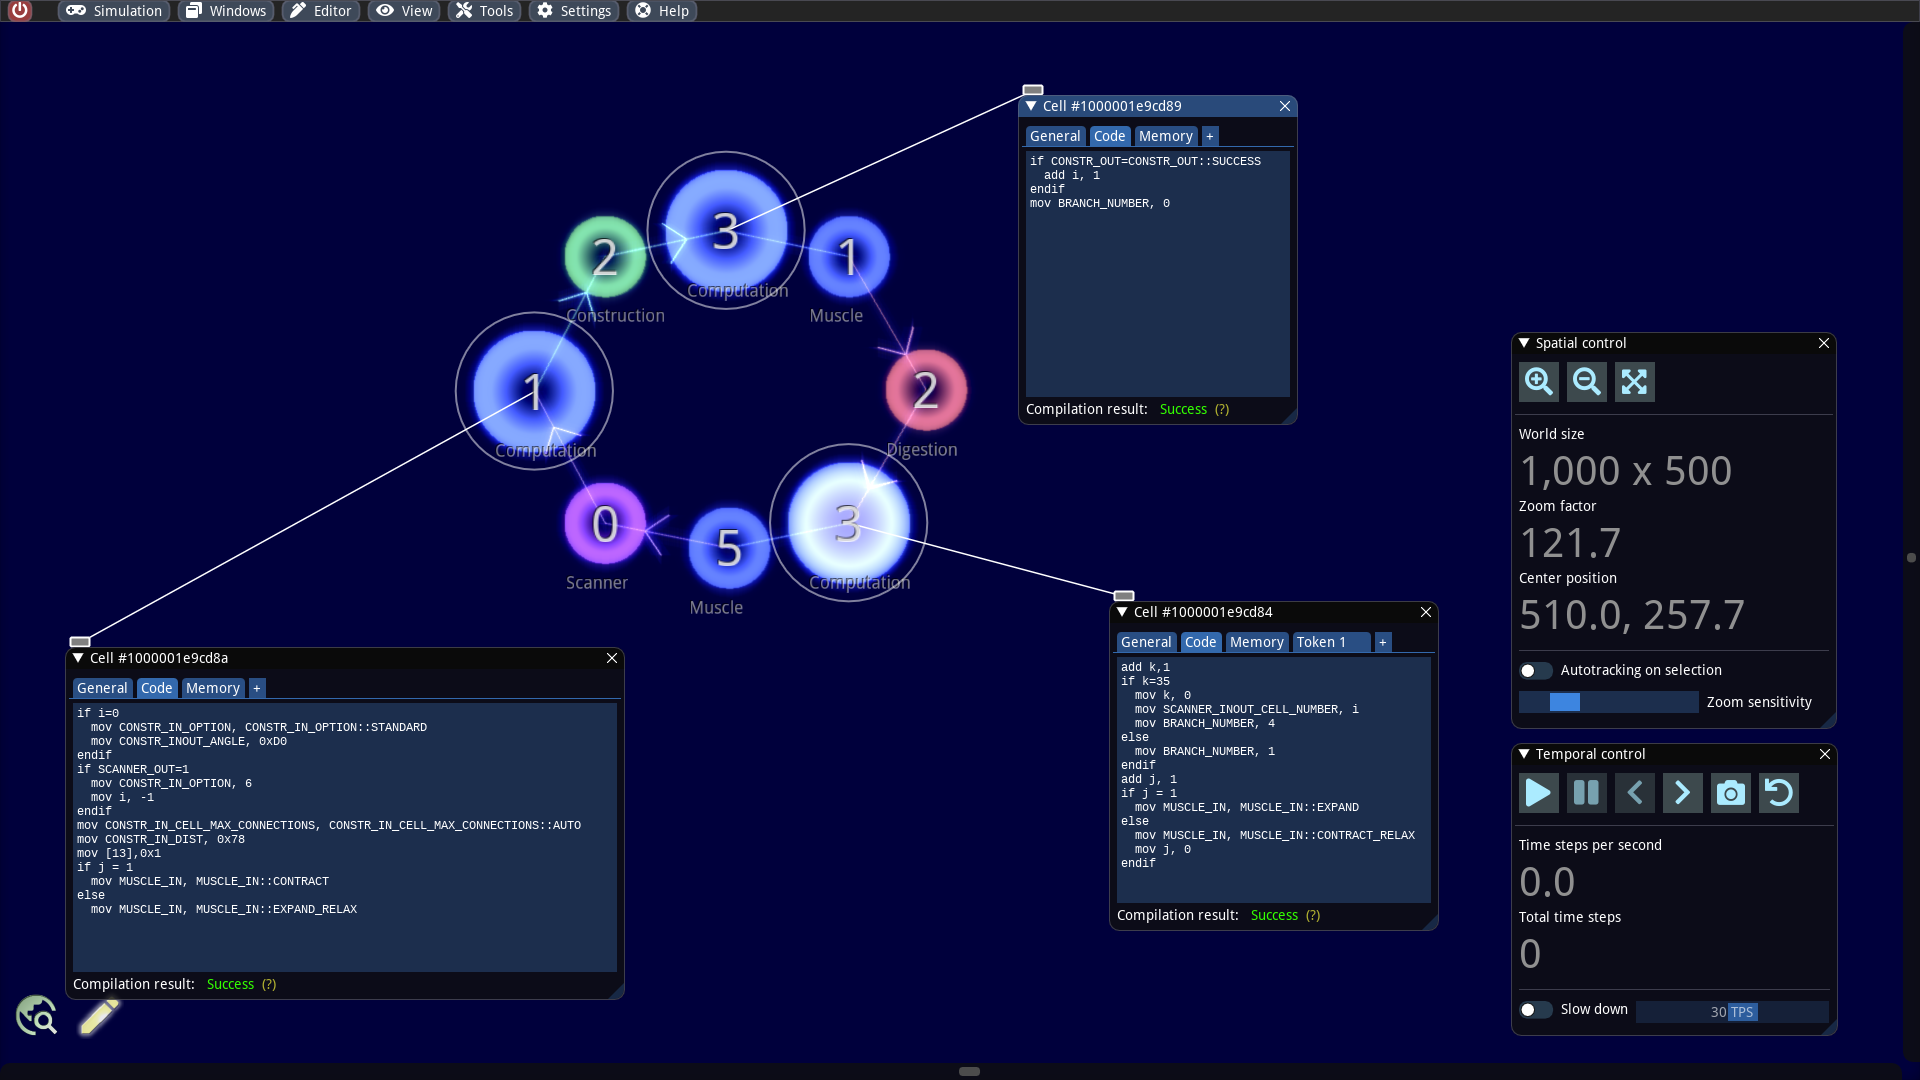
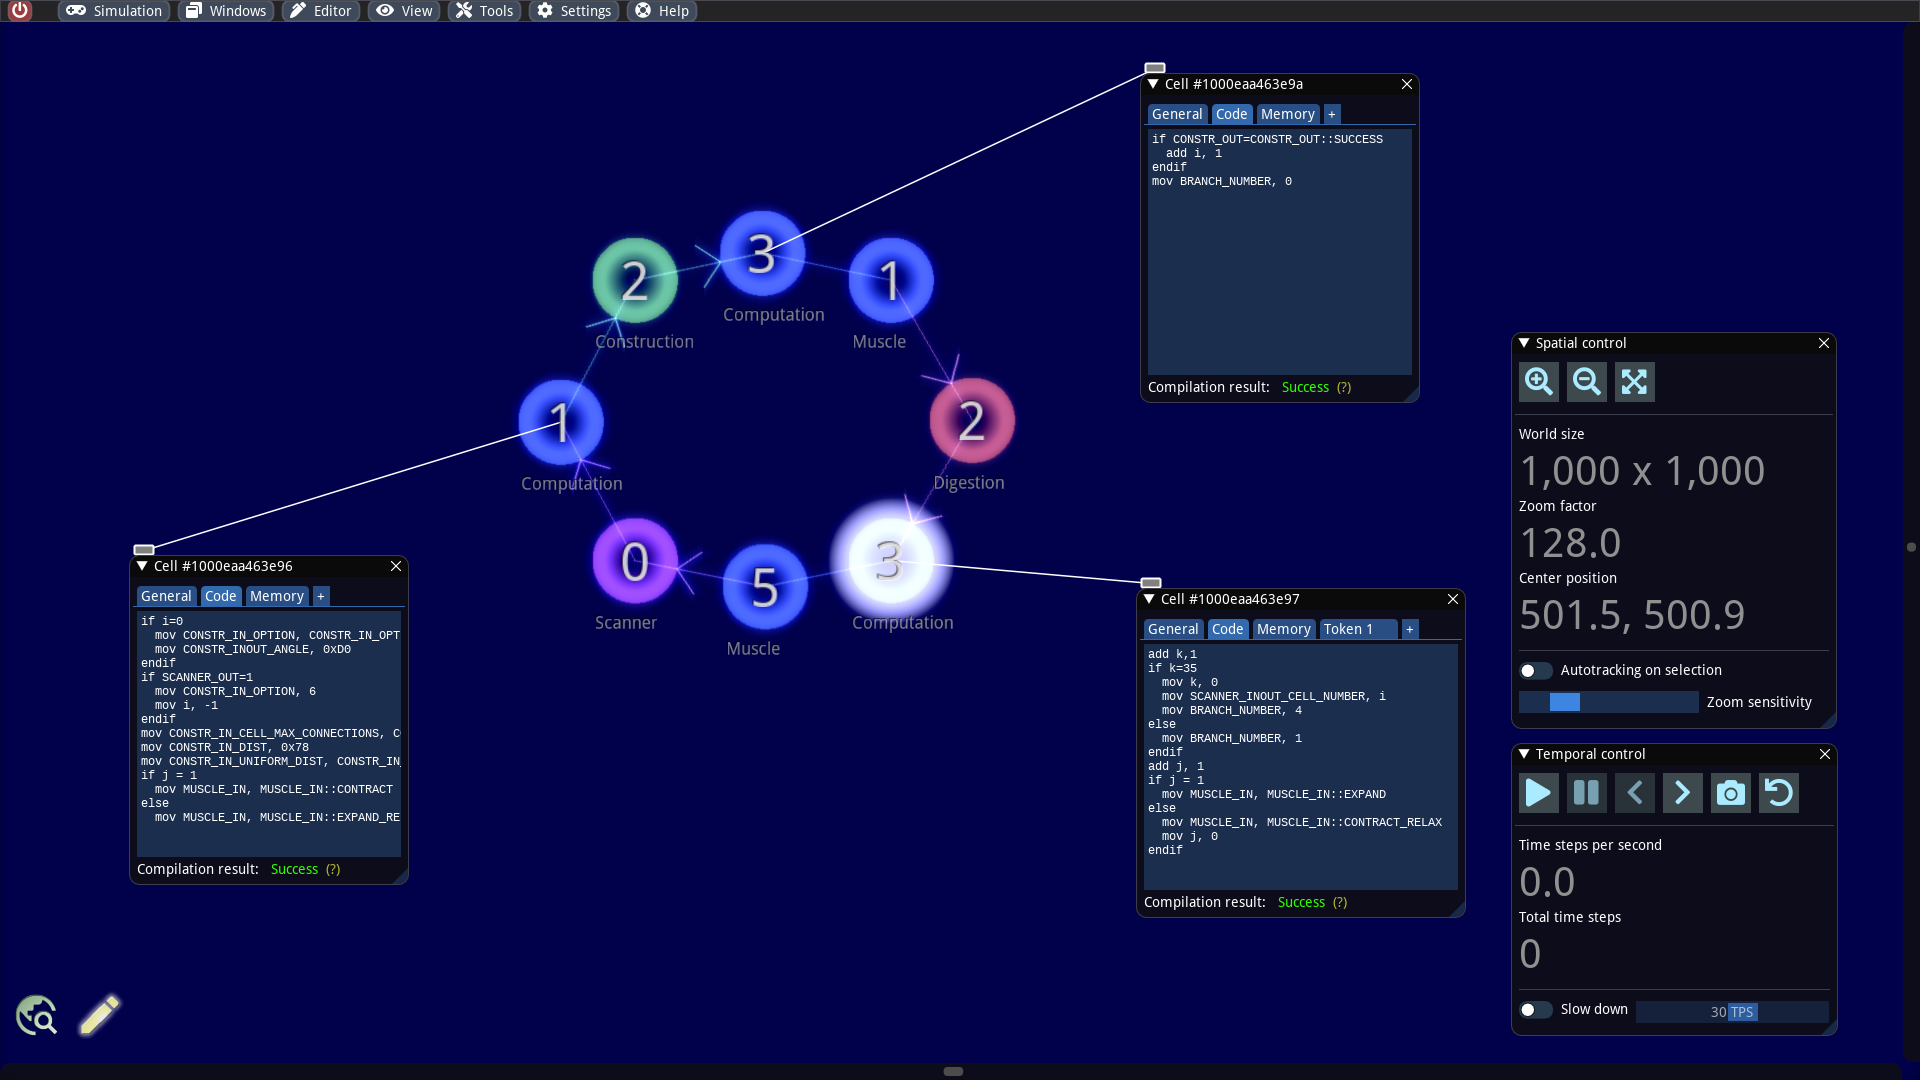
GitBook: [#307] No subject

diff --git a/dive-a-little-deeper/cell-programming/self-replicating-machines.md b/dive-a-little-deeper/cell-programming/self-replicating-machines.md
@@ -10,4 +10,17 @@ We build our self-replicating machine as a simple loop. A more complicated topol
 
 ![Skeleton of a simple self-replicating loop](<../../.gitbook/assets/skeleton replicator.svg>)
 
-A possible basic framework is shown above. At the front (right) is a cell with attack capabilities and at the sides are muscle units to accelerate in the respective direction. For simplicity, we will implement a straight ahead movement pattern. At the back (left) we attach a scanner cell to read out the inner structure and a constructor cell to rebuild the extracted information.
+A possible basic framework is shown above. At the front (right) is a cell with attack capabilities and at the sides are muscle units to accelerate in the respective direction. For simplicity, we will implement a straight ahead movement pattern. At the back (left) we attach a scanner cell to read out the inner structure and a constructor cell to rebuild the extracted information. The challenge here is that we have a variety of cell types and we need to provide them with the appropriate information using the computational cells.
+
+In the ALIEN editor, our self-replicator then looks like this:
+
+![Self-replicating loop in ALIEN](<../../.gitbook/assets/loop closeup.png>)
+
+In the following, we will first explain the two new cell types (Scanner and Constructor) and then discuss the data supply.
+
+## Working principle of a scanner cell
+
+
+
+## Working principle of a construction cell
+
